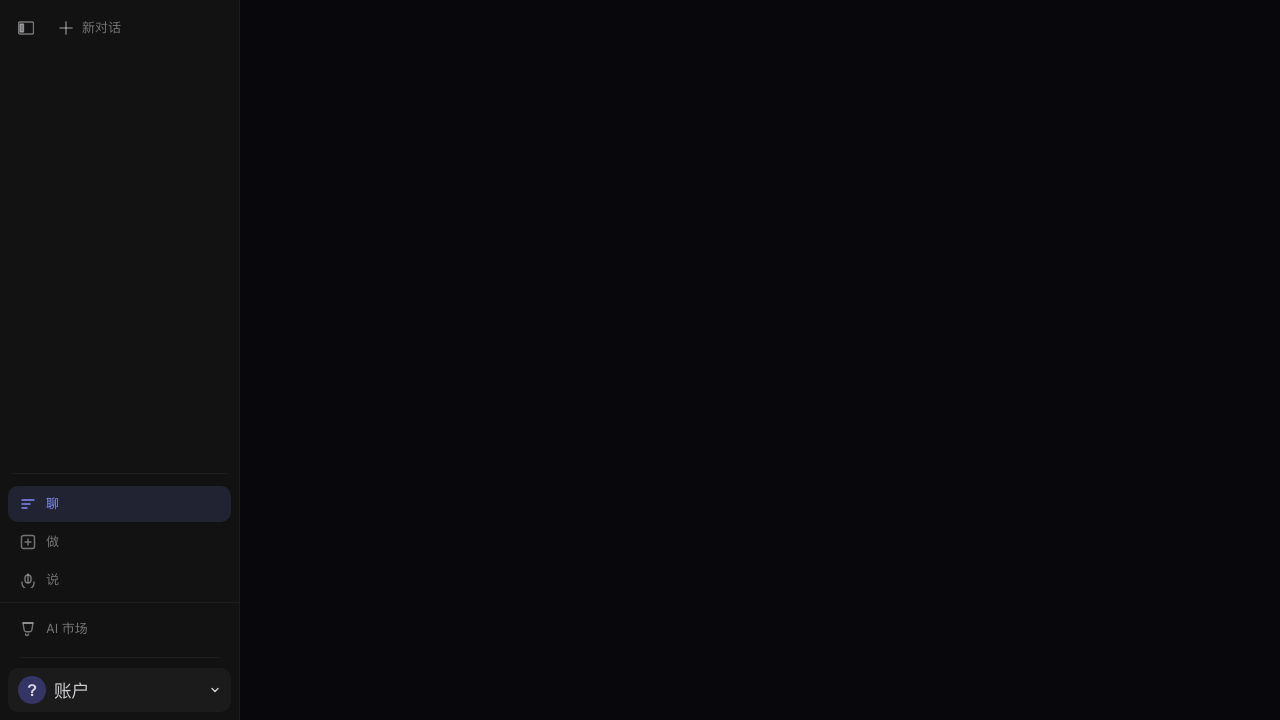
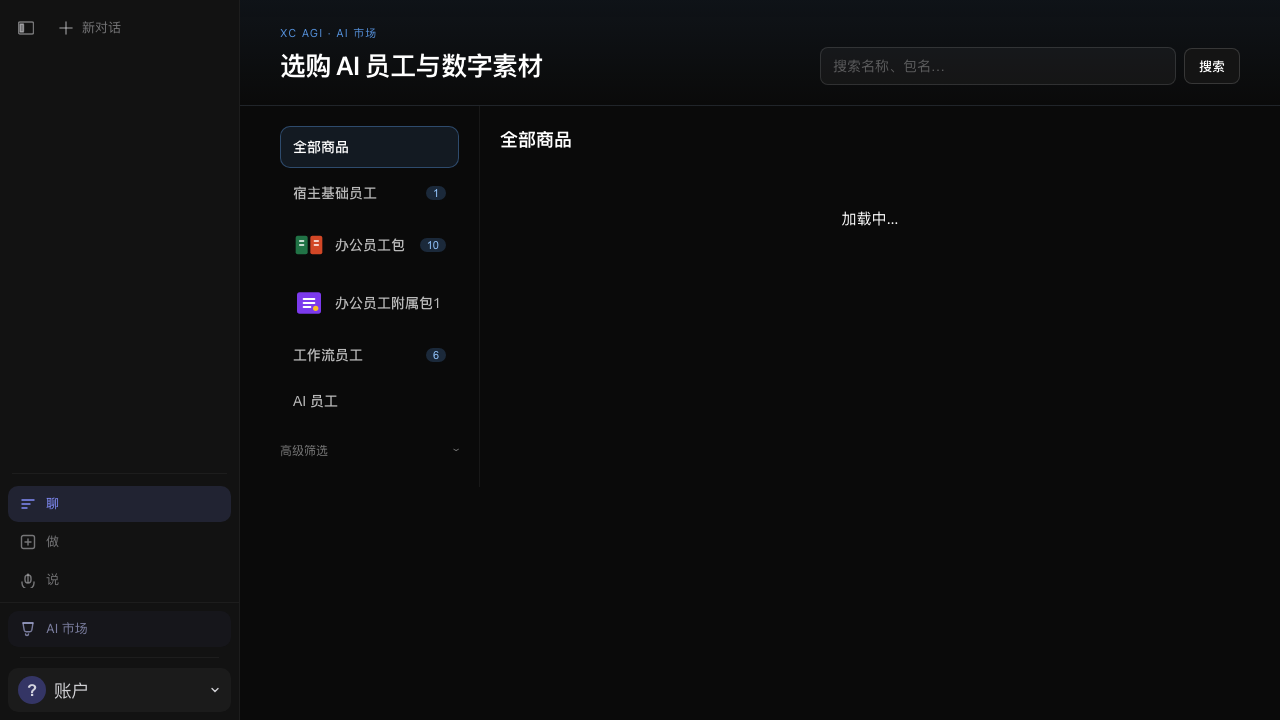
fix(mod-pilot): harden FHD login evidence path and refresh 01/02/04 (v10 线内迭代)
Enterprise session via Vite CSRF cookies + /mod-store?tab=installed so 04 captures real installed cards; merchant setup retries cold-start login.

diff --git a/FHD/frontend/e2e/mod-pilot-evidence.spec.ts b/FHD/frontend/e2e/mod-pilot-evidence.spec.ts
@@ -18,7 +18,8 @@ const MARKET = process.env.MOD_PILOT_MARKET_URL || 'http://127.0.0.1:5176';
 /** API 根（本地 Vite 代理用 MARKET；官网用 https://xiu-ci.com） */
 const MARKET_API = process.env.MOD_PILOT_MARKET_API || MARKET;
 const FHD_WEB = process.env.MOD_PILOT_FHD_URL || 'http://127.0.0.1:5001';
-const FHD_API = process.env.MOD_PILOT_FHD_API || '';
+/** 企业登录直打 API，避免 Vite 冷启动时误判 405/403 */
+const FHD_API = process.env.MOD_PILOT_FHD_API || 'http://127.0.0.1:5000';
 const ADMIN_USER = process.env.MOD_PILOT_ADMIN_USER || process.env.MOD_PILOT_USER || 'testuser';
 const ADMIN_PASS = process.env.MOD_PILOT_ADMIN_PASSWORD || process.env.MOD_PILOT_PASSWORD || 'ModPilot2026!';
 const MERCHANT_USER = process.env.MOD_PILOT_MERCHANT_USER || 'modpilot';
@@ -72,58 +73,72 @@ async function marketLogin(page: import('@playwright/test').Page, redirectPath: 
 }
 
 async function openModStore(page: import('@playwright/test').Page) {
-  await page.goto(`${FHD_WEB}/mod-store`, { waitUntil: 'networkidle', timeout: 90_000 });
-  if (await page.locator('.mod-store, .modstore-primary').first().isVisible({ timeout: 8_000 }).catch(() => false)) {
-    return;
-  }
-  await page.goto(`${FHD_WEB}/ai-ecosystem`, { waitUntil: 'networkidle', timeout: 60_000 });
-  const launcher = page.getByRole('button', { name: /MOD 扩展|扩展市场/i }).first();
-  if (await launcher.isVisible({ timeout: 10_000 }).catch(() => false)) {
+  // 默认 tab=host_foundation 可能空目录；证据页直接进「已安装」
+  const storeUrl = `${FHD_WEB}/mod-store?tab=installed`;
+  await page.goto(storeUrl, { waitUntil: 'domcontentloaded', timeout: 90_000 });
+  const store = page.locator('.mod-store.store-page');
+  if (!(await store.isVisible({ timeout: 20_000 }).catch(() => false))) {
+    await page.goto(`${FHD_WEB}/ai-ecosystem`, { waitUntil: 'domcontentloaded', timeout: 60_000 });
+    const launcher = page.locator('[data-tour="ecosystem-launcher-modstore"]').first();
+    await expect(launcher).toBeVisible({ timeout: 20_000 });
     await launcher.click();
-    await page.waitForTimeout(2000);
+    await page.waitForURL(/\/mod-store/, { timeout: 30_000 });
+    await page.goto(storeUrl, { waitUntil: 'domcontentloaded', timeout: 60_000 });
   }
+  await expect(page.locator('.mod-store.store-page')).toBeVisible({ timeout: 30_000 });
+  await expect(page.locator('.store-title')).toContainText('AI 员工市场', { timeout: 30_000 });
 }
 
 async function fhdEnterpriseLogin(page: import('@playwright/test').Page, redirectPath = '/mod-store') {
-  const fhdApi = FHD_API || FHD_WEB.replace(/\/$/, '');
-  const res = await fetch(`${fhdApi}/api/auth/login`, {
-    method: 'POST',
-    headers: { 'Content-Type': 'application/json', Accept: 'application/json' },
-    body: JSON.stringify({ username: MERCHANT_USER, password: MERCHANT_PASS, account_kind: 'enterprise' }),
-  });
-  expect(res.ok).toBeTruthy();
-  const body = await res.json();
-  expect(body.success).toBeTruthy();
-  const sessionId = String(body.session_id || '');
-  expect(sessionId).toBeTruthy();
-  const marketToken = String(body.market_access_token || '');
-  const webOrigin = new URL(FHD_WEB).origin;
-  await page.context().addCookies([
-    {
-      name: 'session_id',
-      value: sessionId,
-      url: webOrigin,
-      httpOnly: true,
-      secure: webOrigin.startsWith('https'),
-      sameSite: 'Lax',
+  // 走前端同源代理拿 csrf_token + session_id（与 e2e/helpers.loginBrowserSession 一致）
+  const web = FHD_WEB.replace(/\/$/, '');
+  await page.request.get(`${web}/api/health`, { timeout: 15_000 });
+  const pre = await page.request.storageState();
+  const csrf =
+    pre.cookies.find((c) => c.name === 'csrf_token')?.value ||
+    pre.cookies.find((c) => c.name === 'csrf-token')?.value ||
+    '';
+  const resp = await page.request.post(`${web}/api/auth/login`, {
+    headers: {
+      'Content-Type': 'application/json',
+      Accept: 'application/json',
+      ...(csrf ? { 'X-CSRF-Token': csrf } : {}),
     },
-  ]);
-  await page.goto(FHD_WEB, { waitUntil: 'domcontentloaded', timeout: 60_000 });
+    data: { username: MERCHANT_USER, password: MERCHANT_PASS, account_kind: 'enterprise' },
+    timeout: 30_000,
+  });
+  const body = await resp.json().catch(() => ({} as Record<string, unknown>));
+  expect(resp.ok(), `FHD login HTTP ${resp.status()} ${JSON.stringify(body).slice(0, 200)}`).toBeTruthy();
+  expect(body.success, String(body.message || body.error_code || 'login failed')).toBeTruthy();
+  await page.context().addCookies((await page.request.storageState()).cookies);
+
+  const marketToken = String(body.market_access_token || '');
+  await page.goto(web, { waitUntil: 'domcontentloaded', timeout: 60_000 });
   await page.evaluate((tok) => {
-    localStorage.setItem('xcagi_platform_shell_mode', '1');
+    // 不要强开 platform shell：冷启动 filter 与守卫时序会导致首跳不稳定
+    localStorage.removeItem('xcagi_platform_shell_mode');
     if (tok) {
-      localStorage.setItem('market_access_token', tok);
+      localStorage.setItem('xcagi_market_access_token', tok);
       localStorage.setItem('modstore_token', tok);
     }
   }, marketToken);
+
+  // 等主壳就绪，再进能力库
+  await page
+    .locator('.app-shell.is-ready, [aria-label="品牌与标题"]')
+    .first()
+    .waitFor({ state: 'visible', timeout: 60_000 })
+    .catch(() => undefined);
+
+  const splash = page.locator('[aria-label*="初始化"], [title*="跳过"], button:has-text("跳过")').first();
+  if (await splash.isVisible({ timeout: 3_000 }).catch(() => false)) {
+    await splash.click();
+  }
+
   if (redirectPath.includes('mod-store')) {
     await openModStore(page);
   } else {
-    await page.goto(`${FHD_WEB}${redirectPath}`, { waitUntil: 'networkidle', timeout: 90_000 });
-  }
-  const splash = page.locator('[aria-label*="初始化"], [title*="跳过"]').first();
-  if (await splash.isVisible({ timeout: 8_000 }).catch(() => false)) {
-    await splash.click();
+    await page.goto(`${web}${redirectPath}`, { waitUntil: 'domcontentloaded', timeout: 90_000 });
   }
 }
 
@@ -210,7 +225,8 @@ test('03-payment · 真实 checkout + 沙箱 0.01', async ({ page }) => {
 });
 
 test('04-activated · FHD mod-store installed', async ({ page }) => {
-  const loginRes = await fetch(`${FHD_API || FHD_WEB.replace(/\/$/, '')}/api/auth/login`, {
+  // 探针：API 直连可登录再跑 UI（避免冷启动误 skip）
+  const probe = await fetch(`${FHD_API.replace(/\/$/, '')}/api/auth/login`, {
     method: 'POST',
     headers: { 'Content-Type': 'application/json', Accept: 'application/json' },
     body: JSON.stringify({
@@ -219,22 +235,33 @@ test('04-activated · FHD mod-store installed', async ({ page }) => {
       account_kind: 'enterprise',
     }),
   }).catch(() => null);
-  if (!loginRes?.ok) {
-    test.skip(true, 'FHD 企业商家登录不可用，跳过 mod-store 激活截图');
+  if (!probe?.ok) {
+    const detail = probe ? await probe.text().catch(() => '') : 'network';
+    test.skip(true, `FHD 企业商家登录不可用，跳过 mod-store 激活截图 (${detail.slice(0, 120)})`);
   }
+
   await fhdEnterpriseLogin(page, '/mod-store');
-  const storeRoot = page.locator('.mod-store, .modstore-primary, [data-testid="mod-store"]').first();
-  if (!(await storeRoot.isVisible({ timeout: 30_000 }).catch(() => false))) {
-    test.skip(true, 'mod-store 页面未加载（需企业会话 + mod 路由）');
+  await expect(page).toHaveURL(/\/mod-store/, { timeout: 30_000 });
+  const storeRoot = page.locator('.mod-store.store-page');
+  await expect(storeRoot).toBeVisible({ timeout: 30_000 });
+  await expect(page.locator('.store-title')).toContainText('AI 员工市场');
+
+  // 「已安装」tab 应直接露出本机已装卡；若仍空则切全部并点安装
+  const installed = page.locator('.store-card--installed, .tag-owned').first();
+  if (!(await installed.isVisible({ timeout: 25_000 }).catch(() => false))) {
+    await page.getByRole('button', { name: '全部商品' }).click().catch(() => undefined);
+    page.once('dialog', (d) => d.accept().catch(() => undefined));
+    const installBtn = page.locator('.store-card').getByRole('button', { name: /^安装$/ }).first();
+    if (await installBtn.isVisible({ timeout: 10_000 }).catch(() => false)) {
+      await installBtn.click();
+    } else {
+      await page.locator('[data-tour="store-one-click-install"]').click({ timeout: 10_000 });
+    }
+    await page.goto(`${FHD_WEB}/mod-store?tab=installed`, { waitUntil: 'domcontentloaded' });
+    await expect(page.locator('.store-card--installed, .tag-owned').first()).toBeVisible({
+      timeout: 90_000,
+    });
   }
-  await expect(storeRoot).toBeVisible();
-  await expect(page.getByText(/MOD 扩展/)).toBeVisible({ timeout: 15_000 });
-  const installBtn = page.getByRole('button', { name: /安装|Install/i }).first();
-  if (await installBtn.isVisible({ timeout: 5_000 }).catch(() => false)) {
-    await installBtn.click();
-    await page.waitForTimeout(3000);
-  }
-  const installed = page.locator('.installed-badge, .mod-card.installed').first();
-  await expect(installed).toBeVisible({ timeout: 60_000 });
+  await expect(page.getByText('已安装').first()).toBeVisible();
   await shot(page, '04-activated.png');
 });

diff --git a/FHD/scripts/dev/mod_pilot_setup_merchant.py b/FHD/scripts/dev/mod_pilot_setup_merchant.py
@@ -91,6 +91,8 @@ def grant_admin() -> None:
 
 
 def sync_fhd_local_user() -> None:
+    import time
+
     body = json.dumps(
         {
             "username": MERCHANT_USER,
@@ -98,21 +100,32 @@ def sync_fhd_local_user() -> None:
             "account_kind": "enterprise",
         }
     ).encode()
-    req = urllib.request.Request(
-        f"{FHD_API}/api/auth/login",
-        data=body,
-        headers={"Content-Type": "application/json", "Accept": "application/json"},
-        method="POST",
-    )
-    try:
-        with urllib.request.urlopen(req, timeout=30) as resp:
-            data = json.loads(resp.read().decode())
-    except urllib.error.HTTPError as exc:
-        detail = exc.read().decode(errors="replace")[:300]
-        raise SystemExit(f"FHD 企业登录失败 ({exc.code}): {detail}") from exc
-    if not data.get("success"):
-        raise SystemExit(f"FHD 企业登录失败: {data.get('message') or data}")
-    log(f"FHD 本地账号已 JIT 同步: {MERCHANT_USER}")
+    last_err = ""
+    for attempt in range(1, 13):
+        req = urllib.request.Request(
+            f"{FHD_API.rstrip('/')}/api/auth/login",
+            data=body,
+            headers={"Content-Type": "application/json", "Accept": "application/json"},
+            method="POST",
+        )
+        try:
+            with urllib.request.urlopen(req, timeout=30) as resp:
+                data = json.loads(resp.read().decode())
+            if data.get("success"):
+                log(f"FHD 本地账号已 JIT 同步: {MERCHANT_USER}")
+                return
+            last_err = str(data.get("message") or data)
+        except urllib.error.HTTPError as exc:
+            detail = exc.read().decode(errors="replace")[:300]
+            last_err = f"HTTP {exc.code}: {detail}"
+            # 冷启动偶发 405/403/502，重试
+            if exc.code not in {403, 405, 502, 503, 504} and attempt >= 3:
+                raise SystemExit(f"FHD 企业登录失败 ({exc.code}): {detail}") from exc
+        except urllib.error.URLError as exc:
+            last_err = str(exc.reason or exc)
+        log(f"FHD 登录未就绪 (attempt {attempt}/12): {last_err[:160]}")
+        time.sleep(2.5)
+    raise SystemExit(f"FHD 企业登录失败: {last_err}")
 
 
 def main() -> int:

diff --git a/FHD/docs/evidence/mod/README.md b/FHD/docs/evidence/mod/README.md
@@ -1,14 +1,14 @@
 # Mod 商家试点证据（M0 #2 / v10-B）
 
-> **状态（2026-07-11）**：**部分跑通** — `01`/`02` 已用仓内 MODstore 刷新；`03`/`04` 仍阻塞。  
+> **状态（2026-07-11）**：**3/4 跑通** — `01`/`02`/`04` 已用仓内 MODstore + FHD 刷新；`03` 仍缺沙箱买家凭据。  
 > **禁止**：伪造截图或对外宣称「Mod 商店已完全跑通」。
 
 | # | 文件 | 步骤 | 2026-07-11 |
 |---|------|------|------------|
 | 1 | `01-listing.png` | 商家入驻 / Mod 上架审核通过 | **已刷新**（Playwright 绿） |
 | 2 | `02-store-page.png` | 市场页可见、可安装 | **已刷新**（Playwright 绿） |
-| 3 | `03-payment.png` | 0.01 元支付成功 | **跳过**：需 `MOD_PILOT_ALIPAY_BUYER` / `PASS`；本地支付宝签名链路已验 OK |
-| 4 | `04-activated.png` | FHD 宿主安装并激活 Mod | **跳过**：FHD 企业商家登录 403 |
+| 3 | `03-payment.png` | 0.01 元支付成功 | **跳过**：需本机 `export MOD_PILOT_ALIPAY_BUYER` / `PASS`；签名链路已验 OK |
+| 4 | `04-activated.png` | FHD 宿主安装并激活 Mod | **已刷新**（企业登录 + `/mod-store?tab=installed`） |
 
 ## 本地复跑要点
 
@@ -18,7 +18,12 @@
 export PAYMENT_BACKEND=python
 unset ALIPAY_APP_PRIVATE_KEY ALIPAY_ALIPAY_PUBLIC_KEY
 bash FHD/scripts/dev/run_mod_pilot_local.sh
-bash FHD/scripts/dev/capture_mod_pilot_evidence.sh
+
+# FHD API :5000 + frontend :5001 + market Vite :5176 就绪后：
+export MOD_PILOT_MARKET_API=http://127.0.0.1:8788
+export MOD_PILOT_FHD_API=http://127.0.0.1:5000
+# 可选（03）：export MOD_PILOT_ALIPAY_BUYER=… MOD_PILOT_ALIPAY_BUYER_PASS=…
+cd FHD/frontend && npx playwright test e2e/mod-pilot-evidence.spec.ts --project=chromium
 ```
 
 `MODSTORE_DEPLOY_ROOT` 现优先指向仓内 `*/MODstore_deploy`，不再默认 archive。

diff --git a/FHD/docs/evidence/e2e/v10-bc-delivery-progress-2026-07-11.md b/FHD/docs/evidence/e2e/v10-bc-delivery-progress-2026-07-11.md
@@ -14,11 +14,10 @@
 | v10-B | 支付履约写 `user_mods`（`pkg_id` → entitlement 桌面可见） | **代码落地** |
 | v10-C | Flutter 发版 CI 切离 `mobile-android` | **已切**（`fhd-ci-mobile-flutter` / `fhd-release-android` / `android-build`） |
 | v10-C | 真机 E2E 证据（登录/扫码/5G/审批闭环） | **未做** |
-| v10-B | Mod pilot 四图 + `v10-b-*-acceptance` 签字 | **部分**：01/02 已刷新；03 需沙箱买家；04 FHD 企业登录 403 |
+| v10-B | Mod pilot 四图 + `v10-b-*-acceptance` 签字 | **部分**：01/02/04 已刷新；03 仍需 `MOD_PILOT_ALIPAY_BUYER*` |
 
 ## 下一步（最短）
 
-1. `cd FHD/mobile-flutter-poc && flutter test`
-2. 新增 Flutter `assemble`/release workflow（停用归档 Kotlin 发版 SSOT）
-3. 跑 `capture_mod_pilot_evidence.sh` 固化 v10-B 证据
-4. 真机手测后升格本文件为 `*-final.md` 并勾选 PL2/PL3
+1. 配置沙箱买家后重跑 `03-payment`，再写 `v10-b-*-acceptance`
+2. `cd FHD/mobile-flutter-poc && flutter test`（本机需 Flutter SDK）
+3. Flutter release 签名（仍 debug）+ 真机 E2E 后升格 `*-final.md` 并勾选 PL2/PL3
